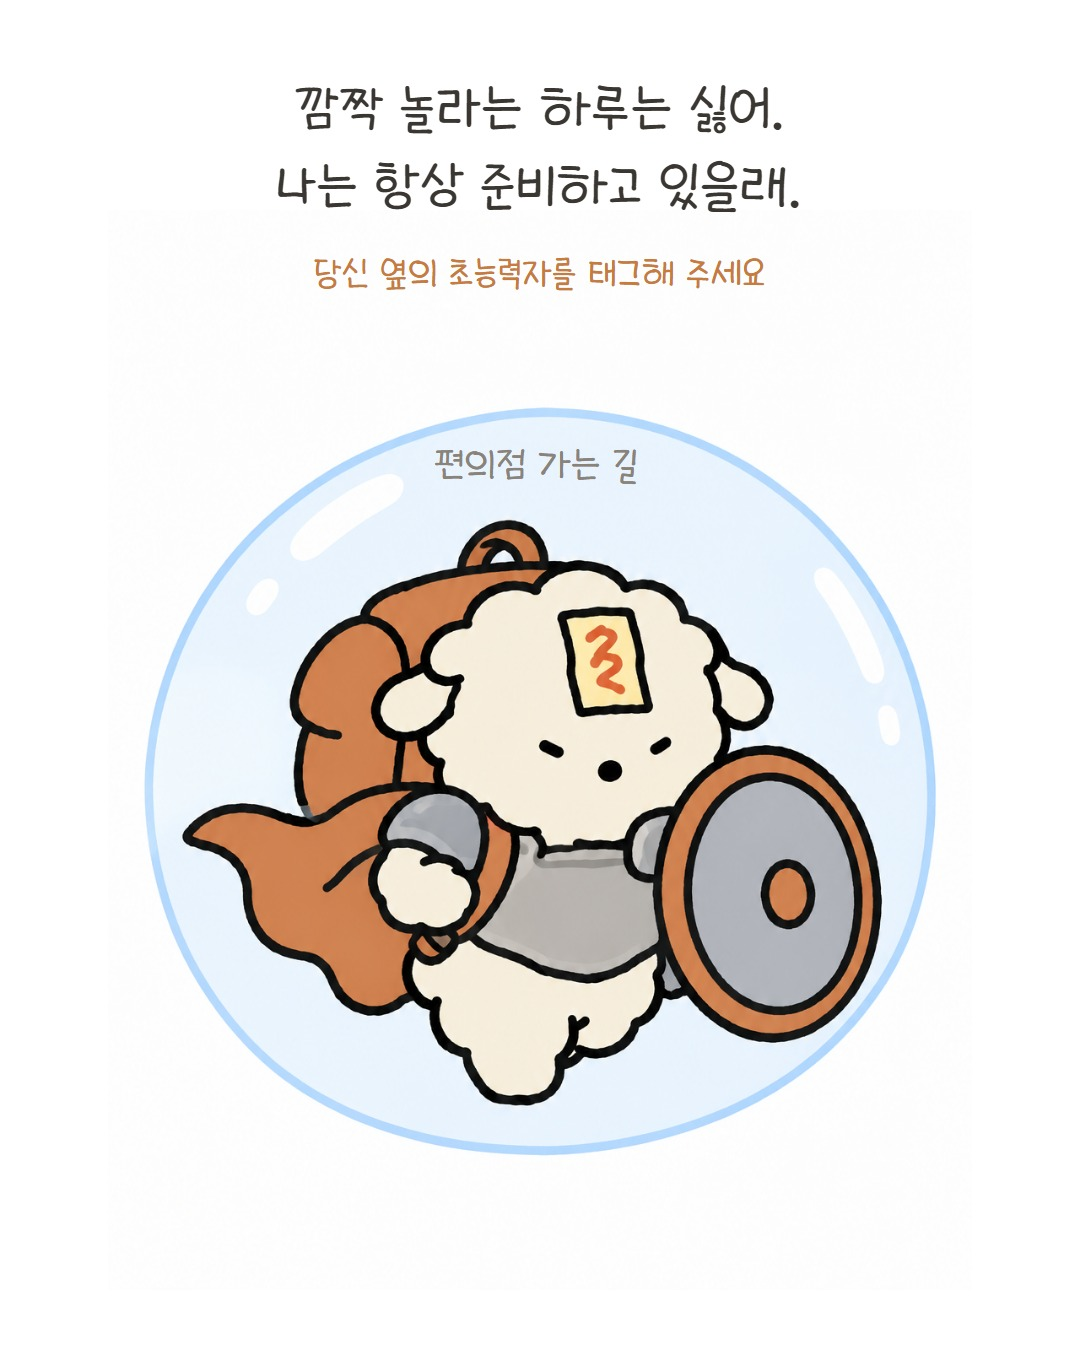
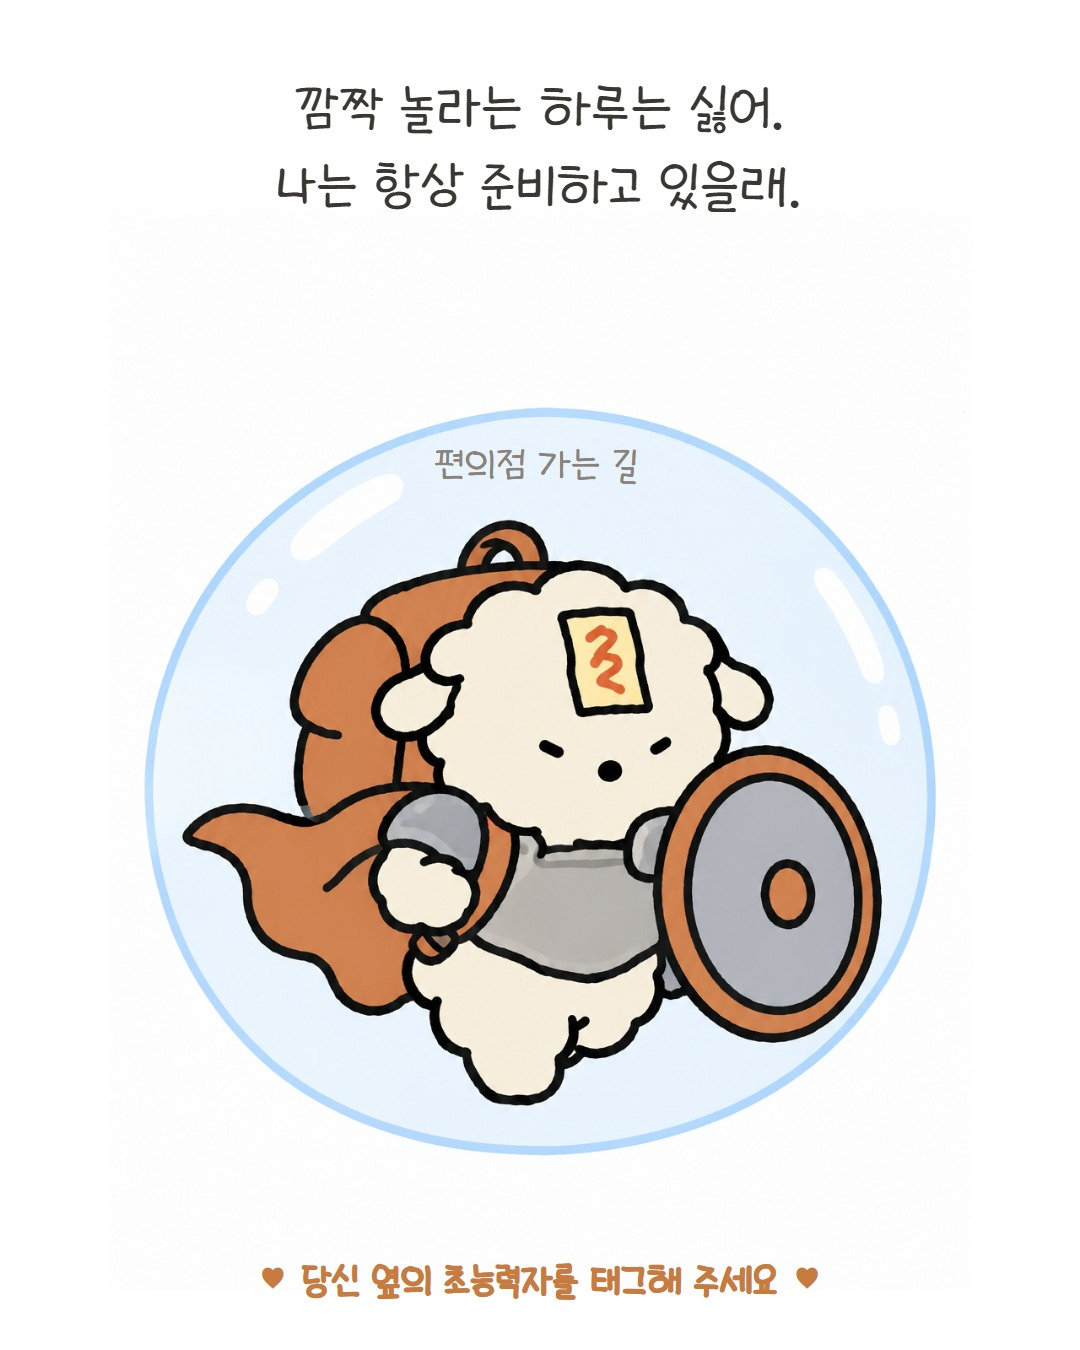
CTA 스타일 확정(하단·볼드·♥ 양옆): 스킬 반영, EP.02 적용

Changed region(s): [[0.2444, 0.9333, 0.7639, 0.9644], [0.275, 0.1867, 0.7028, 0.2178]]

diff --git a/episodes/ep02/compose.html b/episodes/ep02/compose.html
@@ -19,8 +19,8 @@
   .mind{position:absolute;font-size:40px;line-height:1.35;color:var(--gray);white-space:pre-line}
   .mind.s{font-size:30px}
   .mind.t{font-size:38px;color:#6E6862;background:#fff;padding:2px 10px}
-  #s7 .cta{top:250px;bottom:auto}
-  .cta{position:absolute;left:70px;right:70px;bottom:44px;text-align:center;font-size:38px;color:var(--point)}
+  .cta{position:absolute;left:70px;right:70px;bottom:44px;text-align:center;font-size:40px;font-weight:700;color:var(--point);-webkit-text-stroke:.6px var(--point)}
+  .cta .hh{font-family:'Segoe UI Symbol','Malgun Gothic',sans-serif;font-size:34px;-webkit-text-stroke:0;vertical-align:2px;margin:0 6px}
   .dim img.art{filter:saturate(.7)}
 </style>
 </head>
@@ -78,7 +78,7 @@
   <img class="art" src="img/cut7.png" alt="">
   <div class="narr">깜짝 놀라는 하루는 싫어.
 나는 항상 준비하고 있을래.</div>
-  <div class="cta">당신 옆의 초능력자를 태그해 주세요</div>
+  <div class="cta"><span class="hh">♥</span> 당신 옆의 초능력자를 태그해 주세요 <span class="hh">♥</span></div>
   <div class="mind" id="label" style="left:336px;top:438px;width:400px;text-align:center">편의점 가는 길</div>
 </section>
 

diff --git a/.claude/skills/make-episode/SKILL.md b/.claude/skills/make-episode/SKILL.md
@@ -46,7 +46,7 @@ description: 「작은 힘에도 작은 책임은 따른다」 에피소드 1편
 - `episodes/epNN/compose.html` — 슬라이드 8장을 각각 1080×1350 `<section>`으로. 이미지는 1024×1536 생성본을 중앙 1024×1280 크롭(`object-fit:cover`).
 - 폰트: 본문(내레이션·속마음·CTA) **교보손글씨 2019** 확정, 내레이션은 가운데 정렬. 표지 제목은 미확정(현재 나눔손글씨 펜). `@font-face`는 `assets/fonts.html`에서 복사.
 - 표지: 제목 3줄 이내, 핵심 단어 `<b>`로 포인트 컬러. 시리즈명과 제목 사이 약간의 행간(시리즈명 top 84px/44px, 제목 top 166px).
-- 컷: 상단 내레이션, **줄바꿈은 콘티에 적힌 그대로** (임의로 줄 수를 늘리지 않는다). 크기는 레퍼런스 실측(솜비 글자 높이 56px, 서밤 40px) 기준 내레이션 **56px**, 긴 줄은 그 슬라이드만 폭에 맞춰 자동 축소. 속마음·대사 **40px** 회색, 말풍선·박스 없이 캐릭터 옆에. CTA 38px.
+- 컷: 상단 내레이션, **줄바꿈은 콘티에 적힌 그대로** (임의로 줄 수를 늘리지 않는다). 크기는 레퍼런스 실측(솜비 글자 높이 56px, 서밤 40px) 기준 내레이션 **56px**, 긴 줄은 그 슬라이드만 폭에 맞춰 자동 축소. 속마음·대사 **40px** 회색, 말풍선·박스 없이 캐릭터 옆에. CTA는 **하단(bottom 44px) 40px 볼드 포인트 컬러, 양옆에 활자 하트 `♥`**(이모지 아님) — 그림이 바닥까지 닿을 때만 상단으로 올린다. 스타일은 `episodes/ep03/compose.html`의 `.cta` 그대로.
 - Playwright MCP로 각 `<section>`을 `img/slideN.png`로 스크린샷 (viewport 1080×1350, `clip`). MCP 브라우저가 사용 중이면 `chrome-headless-shell.exe --headless --window-size=1080,1350 --virtual-time-budget=10000 --screenshot=img/slideN.png compose.html?only=N` (N은 0부터; `?only`는 compose.html에 그 슬라이드만 남기는 스크립트로 처리).
 - 이미지 크롭은 `object-position:50% 100%`(하단 기준)로 발이 안 잘리게 하고, 표지는 `object-fit:contain`. 그림은 **80%로 축소**해 하단 60px·좌우 여백을 두고(`transform:scale(.8)`, 하단 기준), 모든 컷 동일 적용 — 군중처럼 프레임에 닿는 컷도 예외 없음.
 - 속마음 등 그림 옆 텍스트는 `python scripts/art_bbox.py img/cutN.png`로 그림 영역을 잰 뒤 그 밖에 놓는다. 프롬프트의 "상단 40% 비움"은 대략만 지켜지고(30~47%), 글자 폭은 폰트마다 달라 눈대중으로 두면 겹친다.
